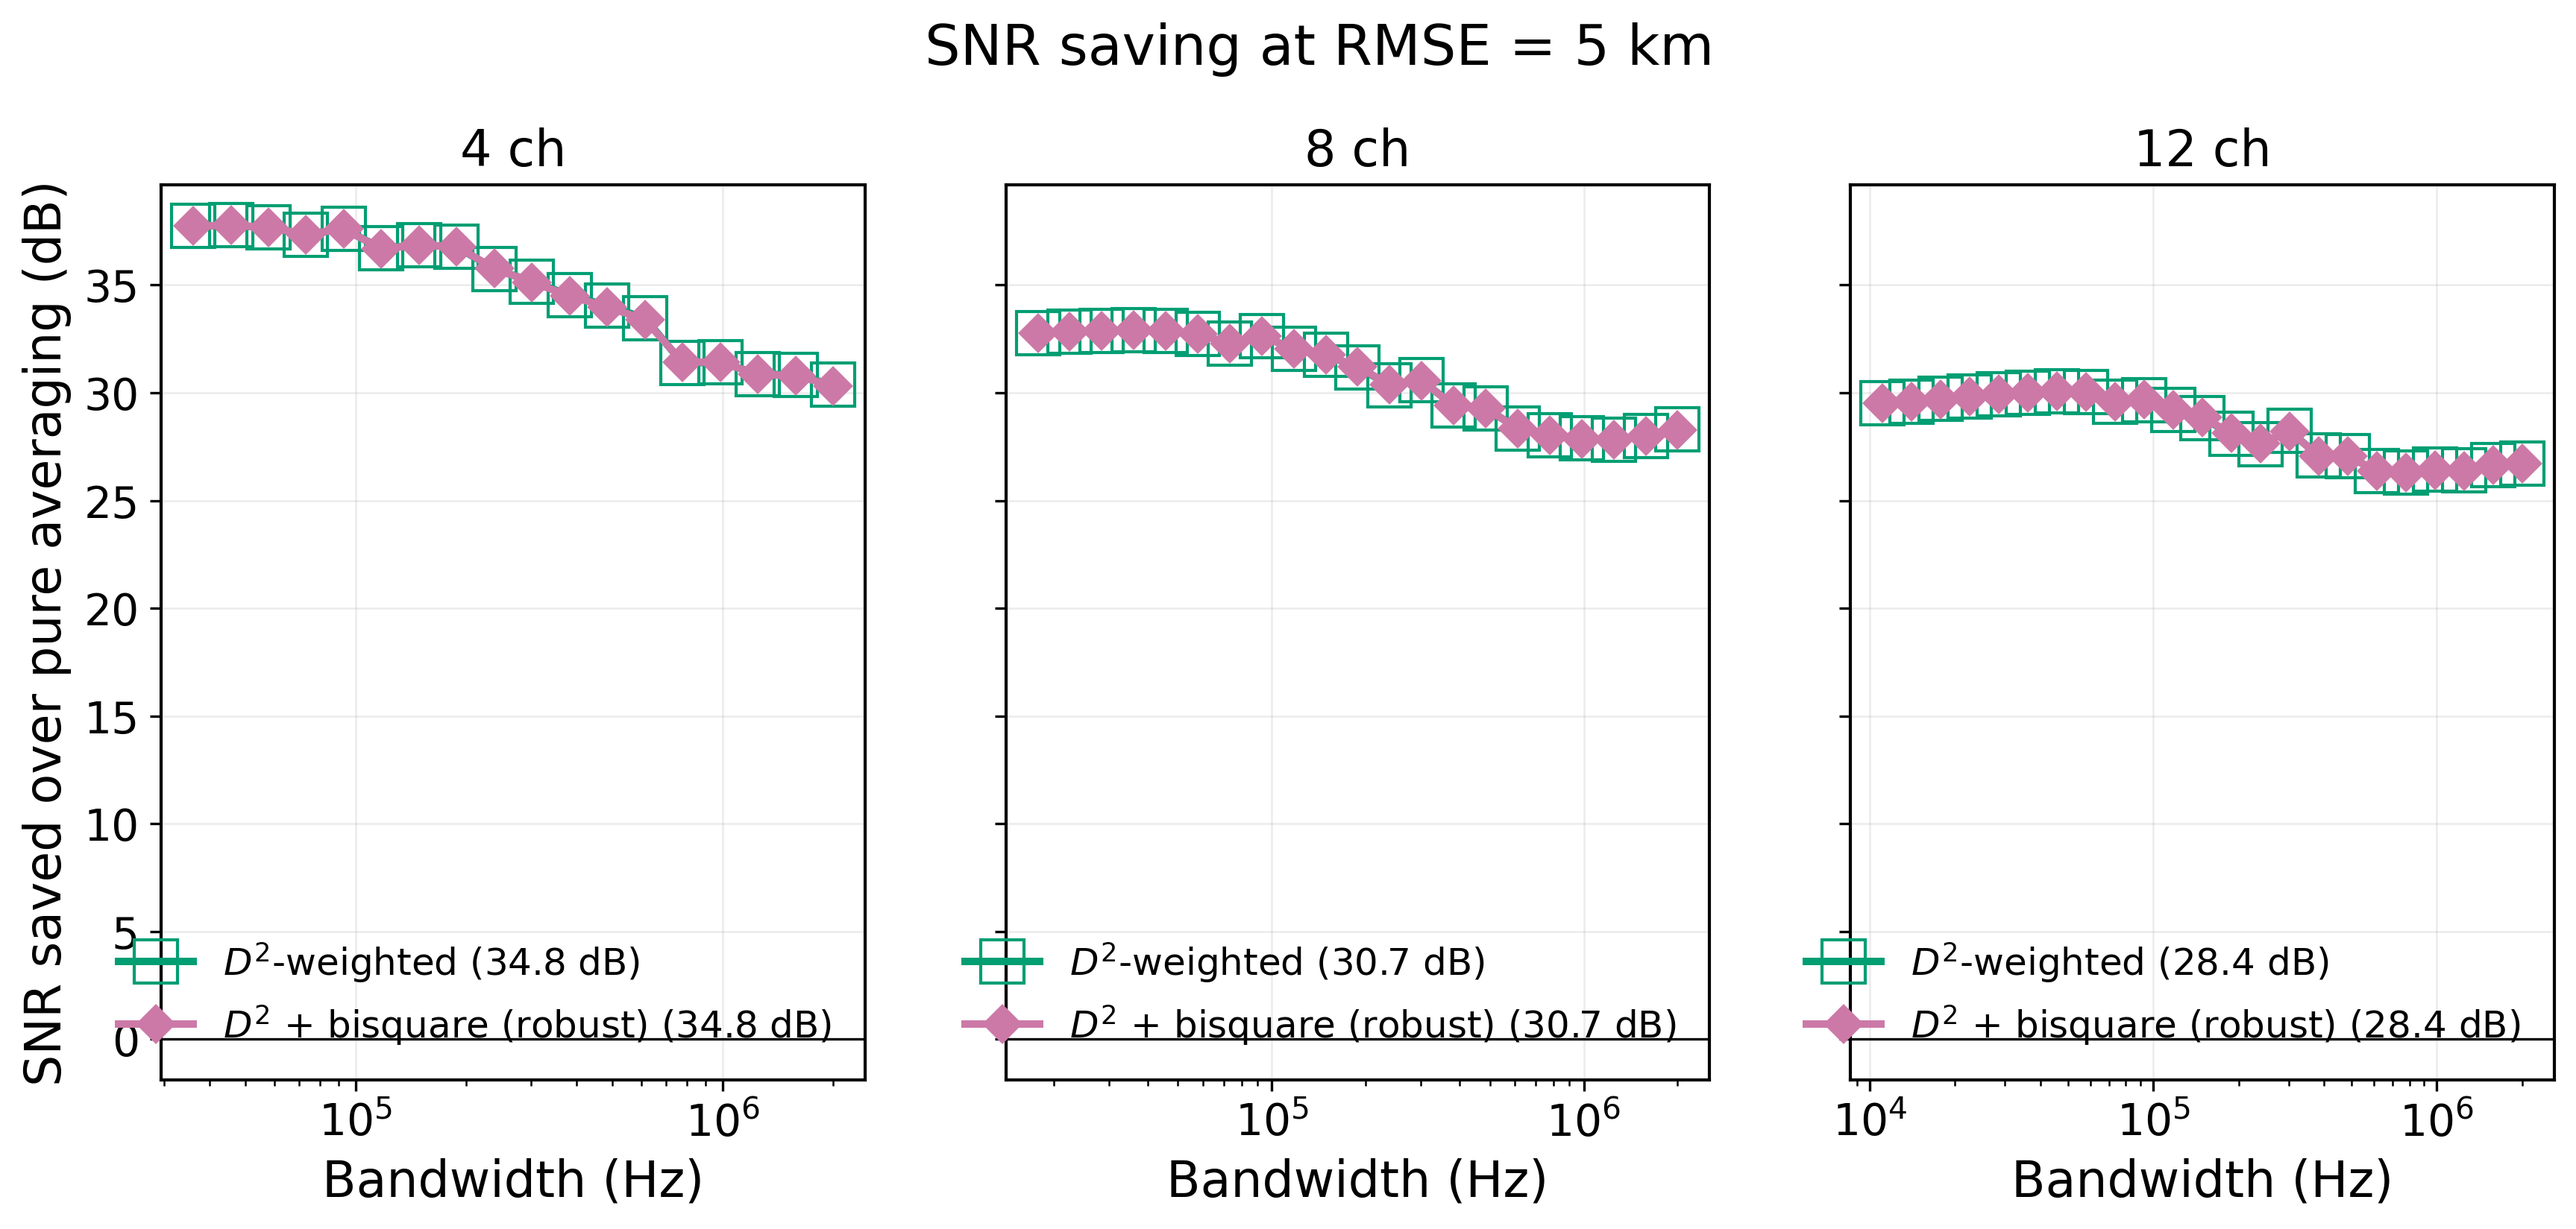
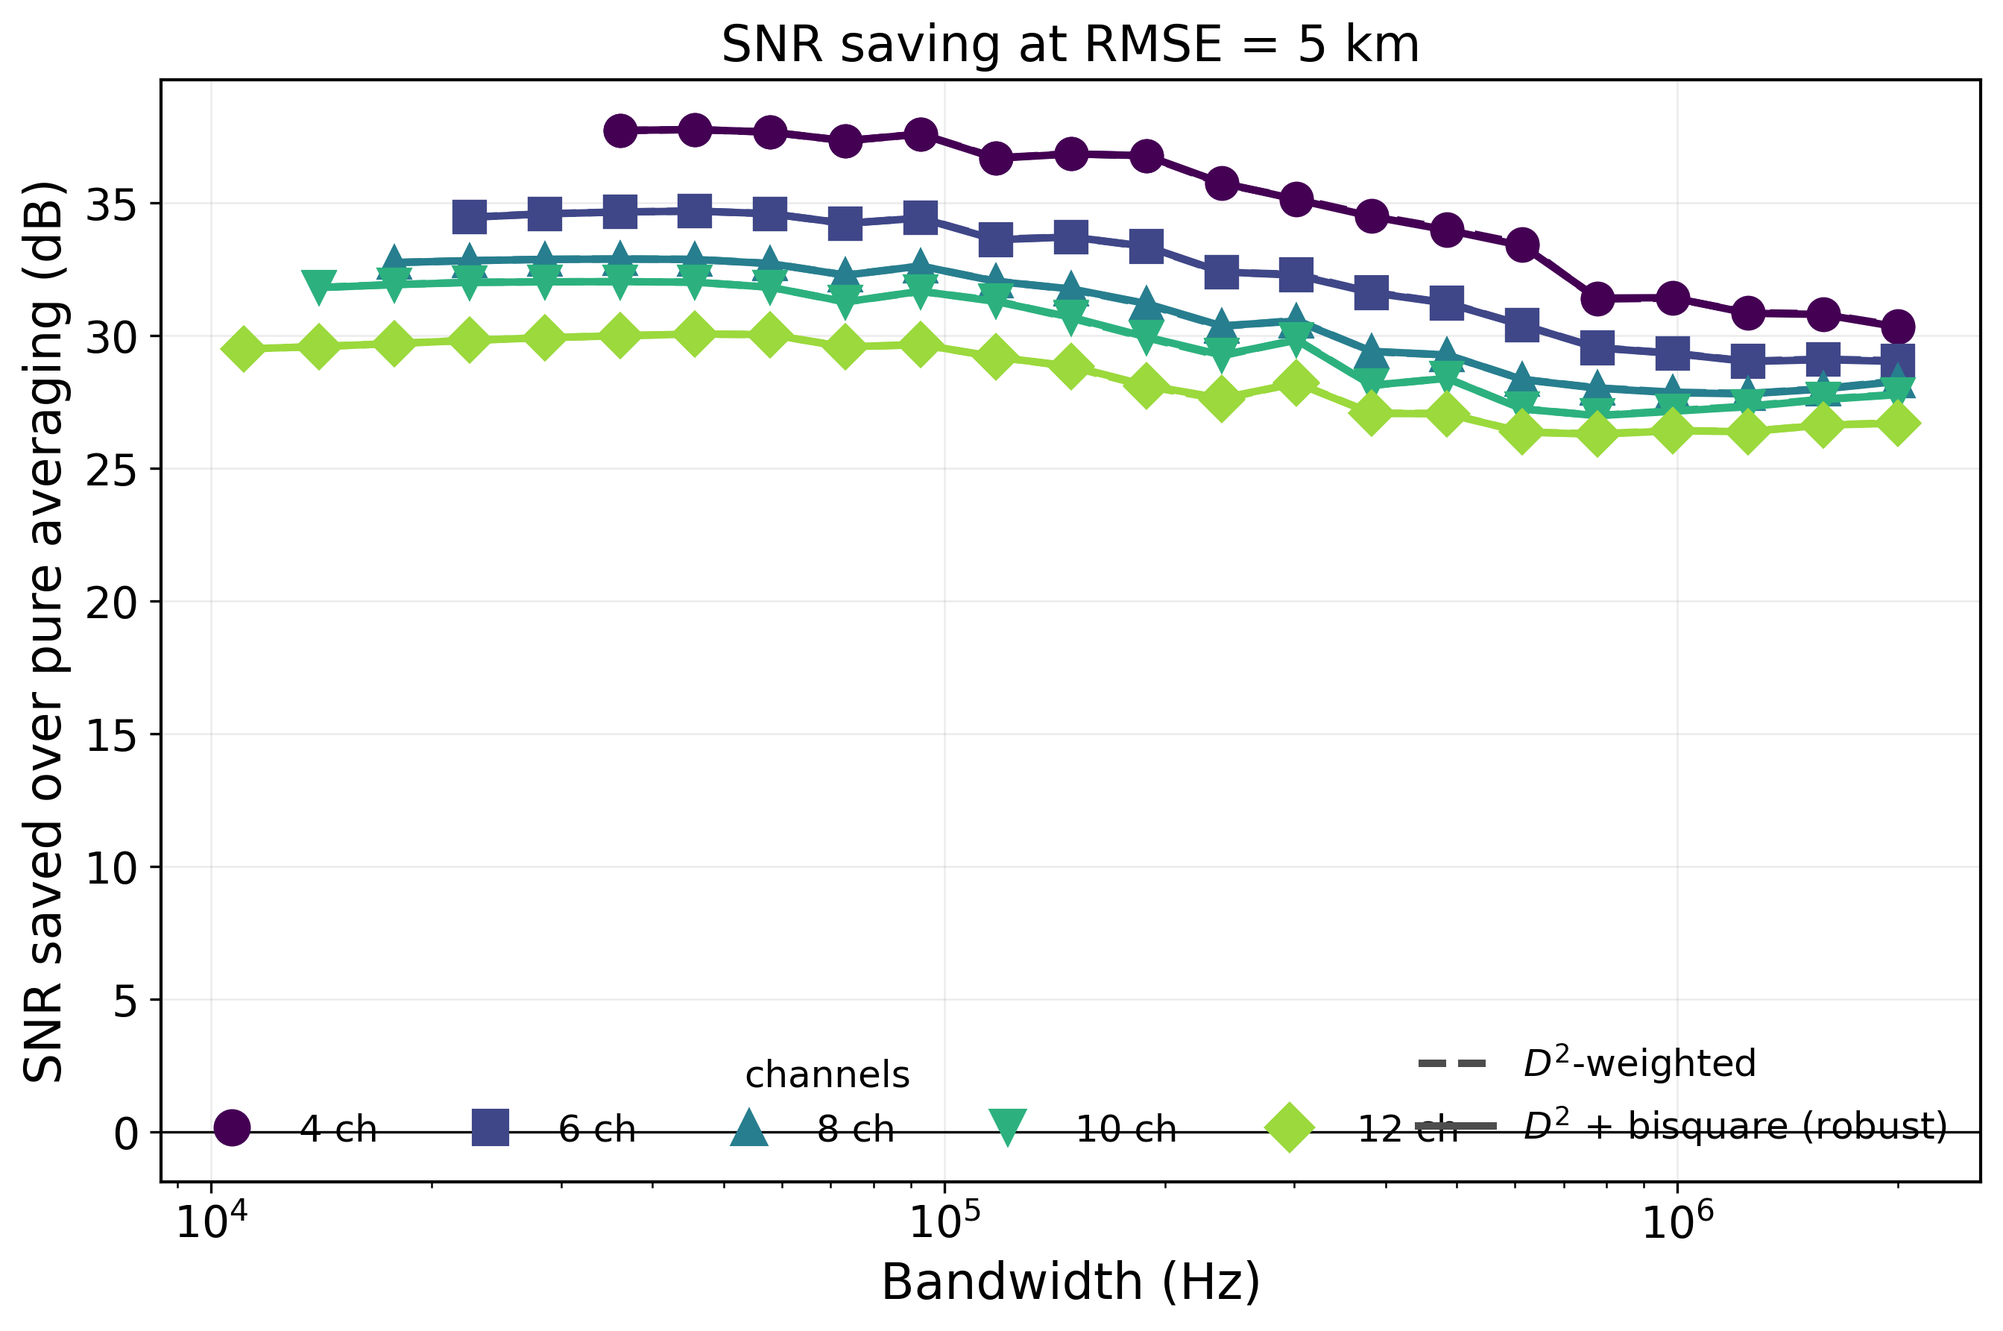
Revert F1 to 1x3; F3 single panel (channel count by colour+marker, estimator by line style)

Changed region(s): [[0.0, 0.0, 1.0, 0.9897], [0.834, 0.0928, 0.8958, 0.1546]]

diff --git a/scripts/sim_Transient_Localization/estimator_comparison.py b/scripts/sim_Transient_Localization/estimator_comparison.py
@@ -130,33 +130,23 @@ def gls_bound(d):
 
 # --------------------------------- plots ----------------------------------
 def fig1_money(res, counts, BW, SNRS, embed_dir):
+    key = counts[-1]
+    r = res[key]
     nb = len(BW)
-    cols = [int(nb * 0.2), int(nb * 0.5), int(nb * 0.8)]
-    rows = [c for c in (4, 8, 12) if c in res] or list(counts)
-    nr, nc = len(rows), len(cols)
-    fig, axes = plt.subplots(nr, nc, figsize=(5.6 * nc, 4.3 * nr),
-                             sharex=True, sharey=True, squeeze=False)
-    for r, n in enumerate(rows):
-        rr = res[n]
-        for c, ib in enumerate(cols):
-            ax = axes[r, c]
-            for est in PLOT_ESTS:
-                mfc = "none" if est == "disp" else COL[est]
-                ax.semilogy(SNRS, rr["rmse"][est][ib], marker=MARK[est],
-                            ms=MSS[est], color=COL[est], markerfacecolor=mfc,
-                            label=LBL[est])
-            ax.semilogy(SNRS, rr["crb"][ib], "k--", lw=1.6, label="CRB (GLS)")
-            ax.set_ylim(bottom=1e-3)
-            if r == 0:
-                ax.set_title(r"$B = %.3g$ kHz" % (BW[ib] / 1e3))
-            if r == nr - 1:
-                ax.set_xlabel("SNR (dB)")
-            if c == 0:
-                ax.set_ylabel("RMSE (km)")
-                ax.text(0.04, 0.06, "%d ch" % n, transform=ax.transAxes,
-                        fontsize=15, fontweight="bold")
-    axes[0, 0].legend(loc="upper right")
-    fig.suptitle("Estimation error vs SNR across channel counts", y=1.005)
+    bw_idx = [int(nb * 0.2), int(nb * 0.5), int(nb * 0.8)]
+    fig, axes = plt.subplots(1, 3, figsize=(17, 5.2), sharey=True)
+    for ax, ib in zip(axes, bw_idx):
+        for est in PLOT_ESTS:
+            mfc = "none" if est == "disp" else COL[est]
+            ax.semilogy(SNRS, r["rmse"][est][ib], marker=MARK[est], ms=MSS[est],
+                        color=COL[est], markerfacecolor=mfc, label=LBL[est])
+        ax.semilogy(SNRS, r["crb"][ib], "k--", lw=1.6, label="CRB (GLS)")
+        ax.set_title(r"$B = %.3g$ kHz" % (BW[ib] / 1e3))
+        ax.set_xlabel("SNR (dB)")
+        ax.set_ylim(bottom=1e-3)
+    axes[0].set_ylabel("RMSE (km)")
+    axes[0].legend(loc="upper right")
+    fig.suptitle("Estimation error vs SNR  (%d channels)" % key, y=1.02)
     f = os.path.join(embed_dir, "F1_rmse_vs_snr.png")
     fig.savefig(f); plt.close(fig); return f
 
@@ -186,29 +176,33 @@ def fig2_ratio_maps(res, counts, BW, SNRS, embed_dir):
 
 
 def fig3_snr_saving(res, counts, BW, SNRS, embed_dir, target=TARGET_RMSE):
-    rows = [c for c in (4, 8, 12) if c in res] or list(counts)
-    nc = len(rows)
-    fig, axes = plt.subplots(1, nc, figsize=(4.6 * nc, 5.2), sharey=True,
-                             squeeze=False)
-    axes = axes[0]
-    for ax, nch in zip(axes, rows):
+    use = list(counts)
+    cmap = plt.cm.viridis(np.linspace(0.0, 0.85, len(use)))
+    mk = ["o", "s", "^", "v", "D", "P", "X", "*"]
+    fig, ax = plt.subplots(figsize=(10.5, 6.4))
+    for ci, nch in enumerate(use):
         r = res[nch]
         navg = np.array([snr_for_target(r["rmse"]["average"][ib], SNRS, target)
                          for ib in range(len(BW))])
-        for est in ["disp", "robust"]:
+        for est, ls in [("disp", "--"), ("robust", "-")]:
             nn = np.array([snr_for_target(r["rmse"][est][ib], SNRS, target)
                            for ib in range(len(BW))])
             d = navg - nn
-            mfc = "none" if est == "disp" else COL[est]
-            ax.semilogx(BW, d, marker=MARK[est], ms=MSS[est], color=COL[est],
-                        markerfacecolor=mfc,
-                        label="%s (%.1f dB)" % (LBL[est], np.nanmean(d)))
-        ax.axhline(0, color="k", lw=0.8)
-        ax.set_xlabel("Bandwidth (Hz)")
-        ax.set_title("%d ch" % nch)
-        ax.legend(loc="lower right", fontsize=12)
-    axes[0].set_ylabel("SNR saved over pure averaging (dB)")
-    fig.suptitle("SNR saving at RMSE = %.3g km" % target, y=1.02)
+            mfc = "none" if est == "disp" else cmap[ci]
+            ax.semilogx(BW, d, ls, marker=mk[ci % len(mk)], ms=10,
+                        color=cmap[ci], markerfacecolor=mfc)
+    ax.axhline(0, color="k", lw=0.8)
+    ax.set_xlabel("Bandwidth (Hz)")
+    ax.set_ylabel("SNR saved over pure averaging (dB)")
+    ax.set_title("SNR saving at RMSE = %.3g km" % target)
+    ch_h = [Line2D([], [], color=cmap[i], marker=mk[i % len(mk)], ls="none",
+                   ms=11, label="%d ch" % use[i]) for i in range(len(use))]
+    est_h = [Line2D([], [], color="0.3", ls="--", label=LBL["disp"]),
+             Line2D([], [], color="0.3", ls="-", label=LBL["robust"])]
+    l1 = ax.legend(handles=ch_h, title="channels", loc="lower left",
+                   ncol=len(use), fontsize=12, title_fontsize=12)
+    ax.add_artist(l1)
+    ax.legend(handles=est_h, loc="center right", fontsize=12)
     f = os.path.join(embed_dir, "F3_isoprecision.png")
     fig.savefig(f); plt.close(fig); return f
     fig.savefig(f); plt.close(fig); return f
